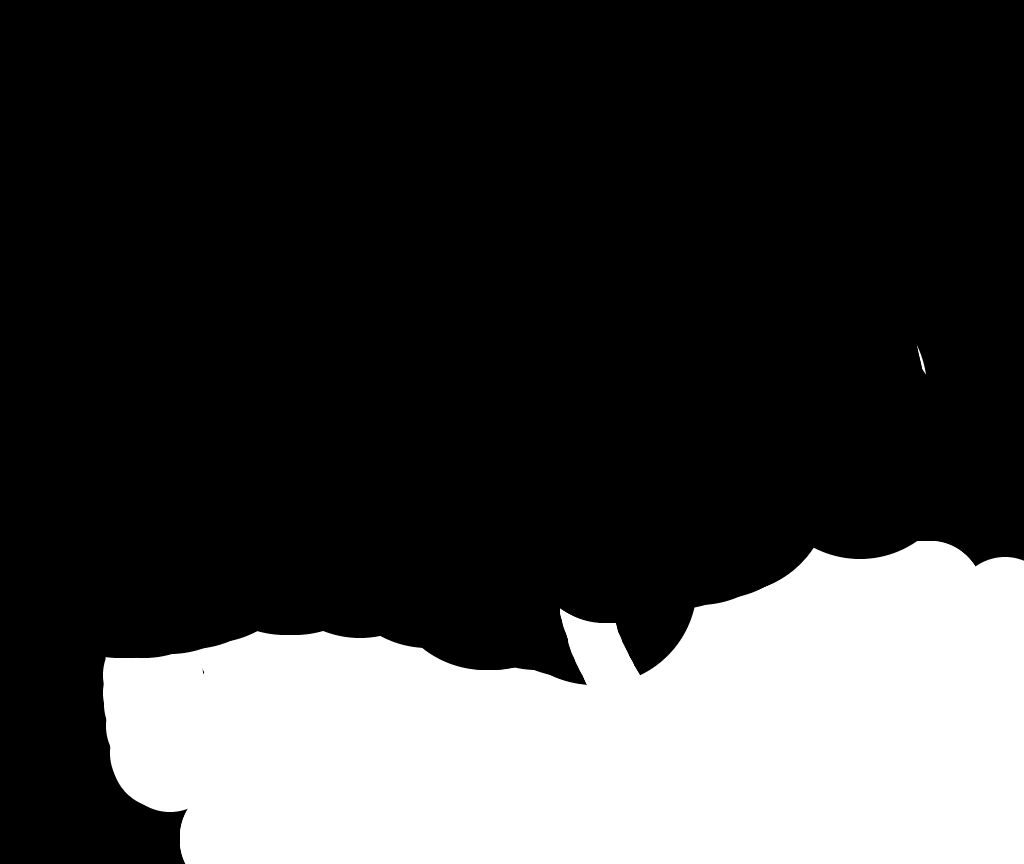
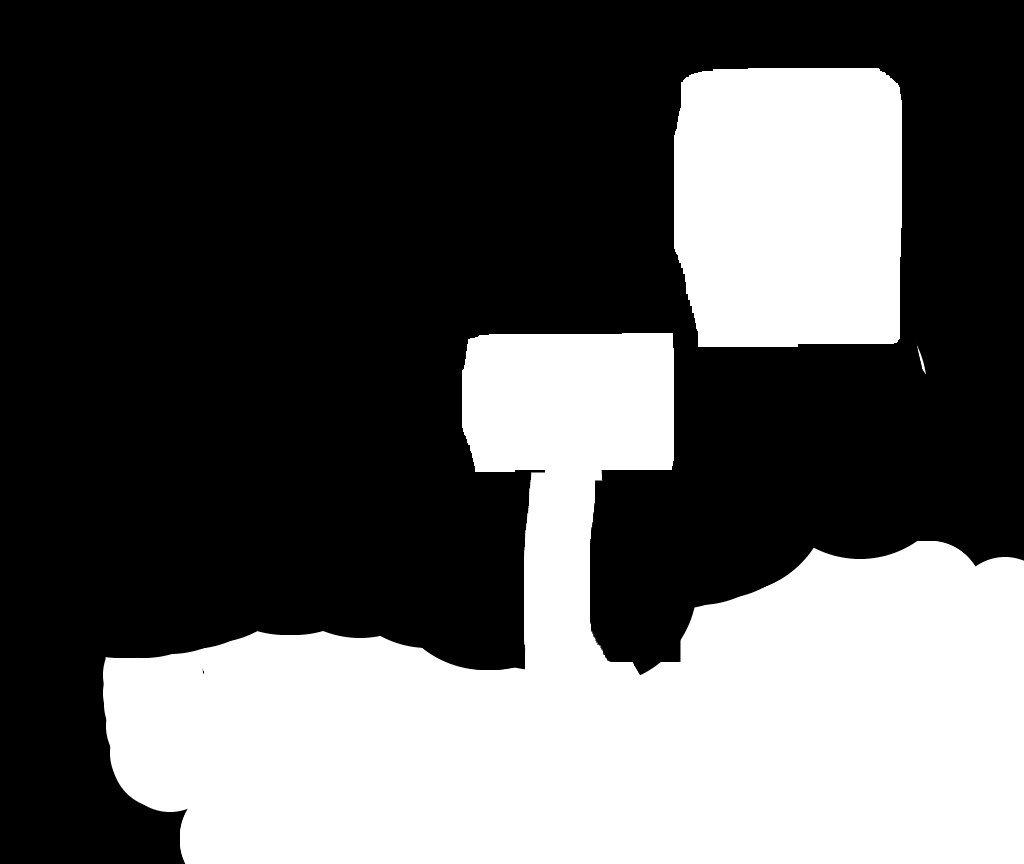
brush shape feature

Changed region(s): [[0.4375, 0.0625, 0.9062, 0.8125], [0.6562, 0.75, 0.6875, 0.7812]]

diff --git a/public/main.js b/public/main.js
@@ -55,16 +55,26 @@ function render() {
   mainContext.beginPath();
   mainContext.strokeStyle = "red";
   mainContext.lineWidth = 3;
-  mainContext.arc(
-    cursorPos.x,
-    cursorPos.y,
-    BRUSH_RADIUS * brushRadiusMultiplier,
-    0,
-    2 * Math.PI
-  );
-  mainContext.stroke();
-  mainContext.closePath();
-  mainContext.restore();
+  if (brushType === "circle") {
+    mainContext.arc(
+      cursorPos.x,
+      cursorPos.y,
+      BRUSH_RADIUS * brushRadiusMultiplier,
+      0,
+      2 * Math.PI
+    );
+  }
+  if (brushType === "rect") {
+    mainContext.rect(
+      cursorPos.x - (BRUSH_RADIUS * brushRadiusMultiplier) / 2,
+      cursorPos.y - (BRUSH_RADIUS * brushRadiusMultiplier) / 2,
+      BRUSH_RADIUS * brushRadiusMultiplier,
+      BRUSH_RADIUS * brushRadiusMultiplier
+    );
+    mainContext.stroke();
+    mainContext.closePath();
+    mainContext.restore();
+  }
 }
 
 /**
@@ -72,6 +82,11 @@ function render() {
  */
 let mousePressed = false;
 let brushRadiusMultiplier = 5;
+let brushType = "circle";
+
+document.getElementById("brushStyle").addEventListener("change", (event) => {
+  brushType = event.target.value;
+});
 
 mainCanvas.addEventListener("mousedown", (event) => {
   mousePressed = true;
@@ -101,17 +116,26 @@ mainCanvas.addEventListener("mousemove", (event) => {
   if (mousePressed) {
     maskContext.beginPath();
     maskContext.fillStyle = event.shiftKey ? "black" : "white";
-    maskContext.arc(
-      cursorPos.x,
-      cursorPos.y,
-      BRUSH_RADIUS * brushRadiusMultiplier,
-      0,
-      2 * Math.PI
-    );
+    if (brushType === "circle") {
+      maskContext.arc(
+        cursorPos.x,
+        cursorPos.y,
+        BRUSH_RADIUS * brushRadiusMultiplier,
+        0,
+        2 * Math.PI
+      );
+    }
+    if (brushType === "rect") {
+      maskContext.rect(
+        cursorPos.x - (BRUSH_RADIUS * brushRadiusMultiplier) / 2,
+        cursorPos.y - (BRUSH_RADIUS * brushRadiusMultiplier) / 2,
+        BRUSH_RADIUS * brushRadiusMultiplier,
+        BRUSH_RADIUS * brushRadiusMultiplier
+      );
+    }
     maskContext.fill();
     maskContext.closePath();
   }
-
   render();
 });
 

diff --git a/public/index.html b/public/index.html
@@ -22,6 +22,10 @@
     <canvas id="exportContainer"> </canvas>
     <div>
       <button id="postMask">Envoyer le masque</button>
+      <select name="brushStyle" id="brushStyle">
+        <option value="circle">Cercle</option>
+        <option value="rect">Rectangle</option>
+      </select>
     </div>
 
     <script src="main.js"></script>
